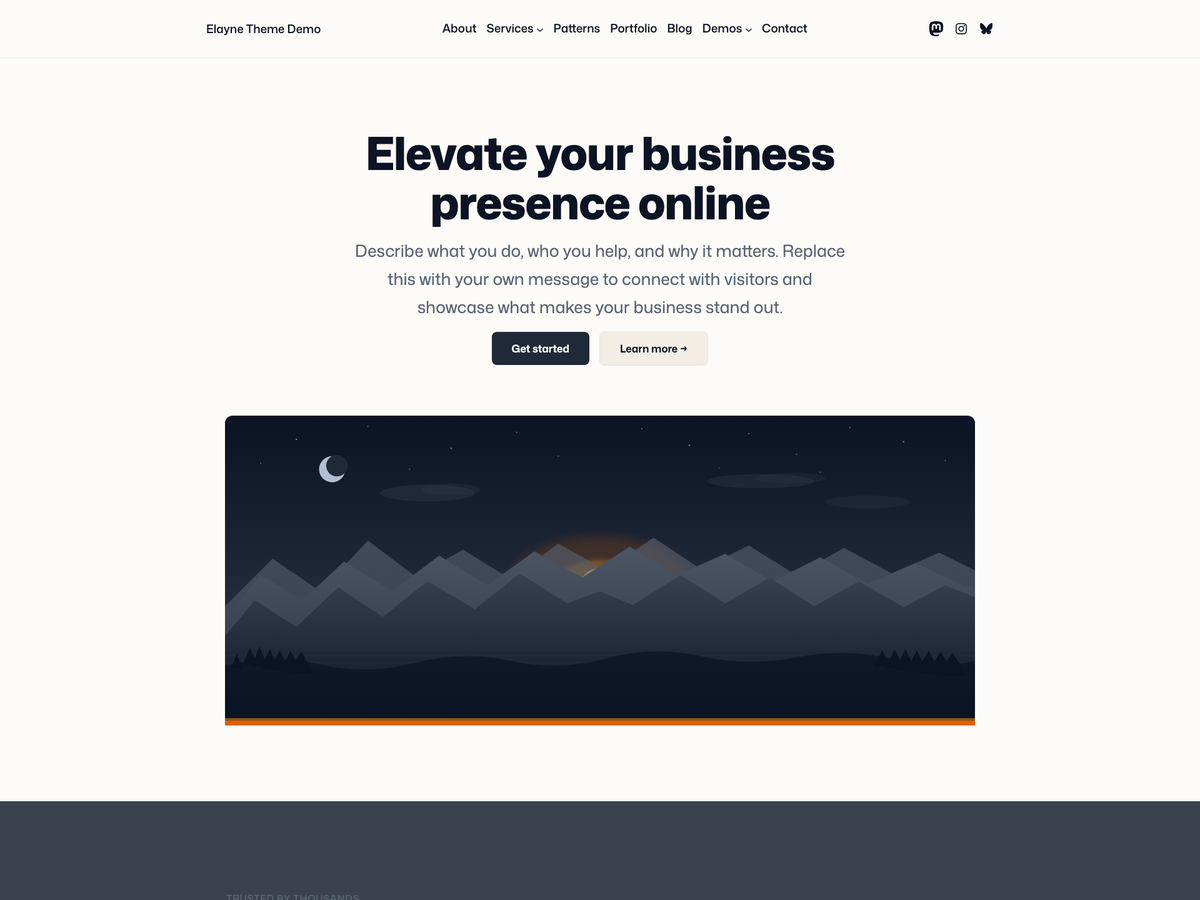
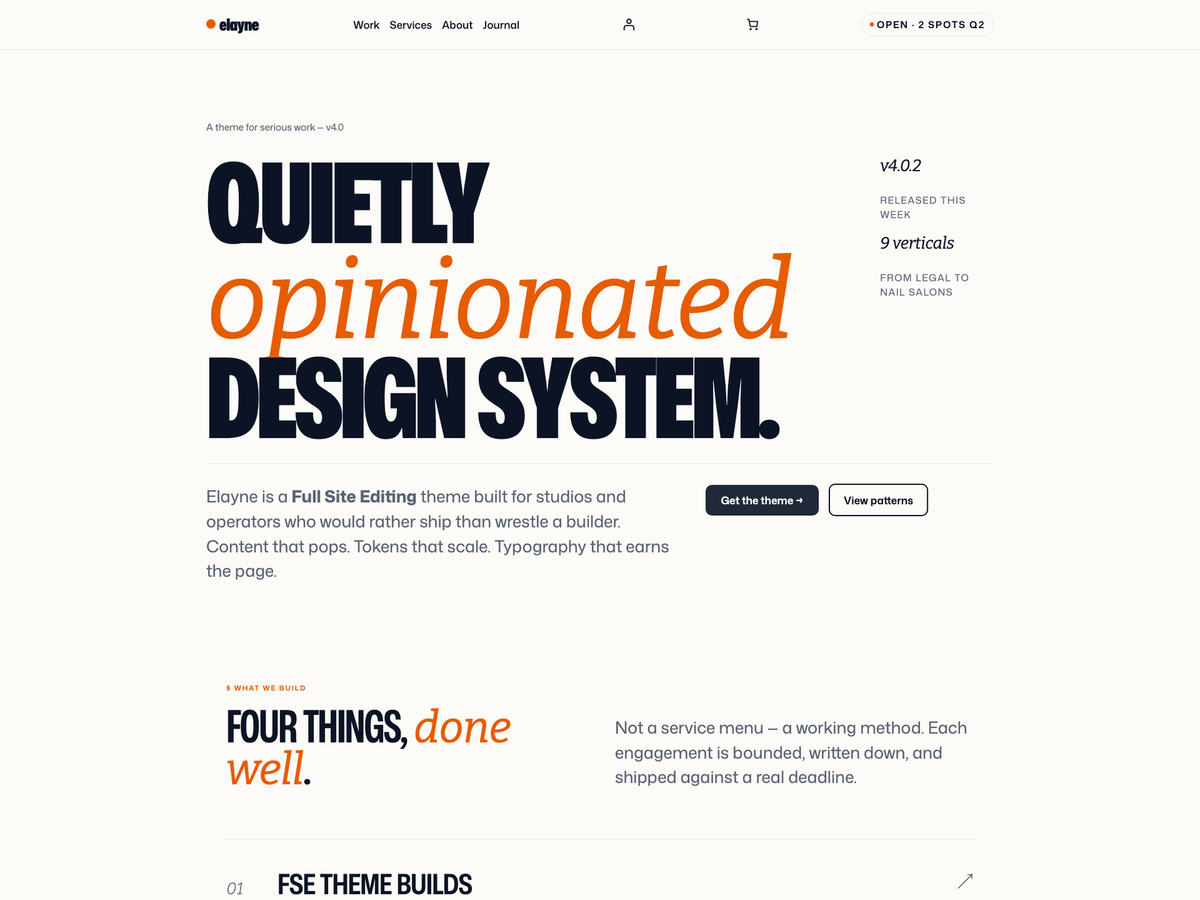
chore: bump version to 4.2.0 and update docs and screenshot

diff --git a/style.css b/style.css
@@ -7,7 +7,7 @@ Description: A premium full-site-editing block theme with industry-specific patt
 Requires at least: 6.6
 Tested up to: 6.9
 Requires PHP: 8.0
-Version: 4.1.0
+Version: 4.2.0
 License: GNU General Public License v3 or later
 License URI: https://www.gnu.org/licenses/gpl-3.0.html
 Text Domain: elayne

diff --git a/CHANGELOG.md b/CHANGELOG.md
@@ -7,6 +7,30 @@ and this project adheres to [Semantic Versioning](https://semver.org/spec/v2.0.0
 
 ## [Unreleased]
 
+## [4.2.0] - 2026-05-18
+
+### Added
+
+**Services Stack Pattern (`elayne/main-services-stack`):**
+- New editorial pattern featuring a numbered services list with four service entries: FSE theme builds, Headless + Sage, Vertical kits, and Performance + SEO
+- Two-column header section with uppercase kicker text, condensed display heading with italic serif accent, and a companion description paragraph
+- Each service row includes an italic serif number, uppercase heading, short description, and pill-tag group
+- Animated arrow indicator (`↗`) per row that shifts on hover
+
+**Editorial Block Styles (CSS):**
+- `is-style-editorial-services-stack` — Container style for the services stack; styles kicker text (uppercase, wide letter-spacing) and condensed heading with italic serif `<em>` and `<mark>` accents in `accent-warm`
+- `is-style-editorial-service-row` — Row style with bottom border, flex layout, and hover animation: `padding-left` slides in 56 px and a 40 px warm-accent line extends from the left edge; arrow indicator translates and changes colour; transitions use `cubic-bezier(.2, .7, .2, 1)` at 380 ms; stack collapses to column at ≤600 px; all transitions suppressed under `prefers-reduced-motion`
+- `is-style-editorial-pill` — Paragraph block style rendering inline tag chips: `xx-small` bold uppercase text, `main-accent` colour, `border-light` border, `999px` border-radius, and zero margin
+
+### Changed
+
+**Hero Pattern (`elayne/main-hero`):**
+- Updated displayed version number in hero stats column from `v4.0.2` to `v4.2.0`
+- Revised hero description copy: replaced "Patterns that compose." with "Content that pops."
+
+**Theme Screenshot:**
+- Updated `screenshot.png` to reflect the current hero design including the new services stack section",
+
 ## [4.1.0] - 2026-05-17
 
 ### Added

diff --git a/README.md b/README.md
@@ -45,9 +45,9 @@ For developer installation and setup, see [CONTRIBUTING.md](CONTRIBUTING.md)
 
 Elayne includes **125+ professionally designed patterns** across multiple categories:
 
-**Core Patterns:** Hero Sections (6) • Headers & Footers (11) • Banners (4) • Call-to-Action (11) • Contact (2) • Features (17) • Testimonials (7) • Statistics (1) • Team (1) • Blog & Posts (6)
+**Core Patterns:** Hero Sections (6) • Headers & Footers (11) • Banners (4) • Call-to-Action (11) • Contact (2) • Features (18) • Testimonials (7) • Statistics (1) • Team (1) • Blog & Posts (6)
 
-> Hero sections include the new `main-hero` pattern for agency and corporate homepages alongside `hero-modern-light` and the full set of industry-specific heroes.
+> Hero sections include the new `main-hero` pattern for agency and corporate homepages alongside `hero-modern-light` and the full set of industry-specific heroes. Features includes the new `main-services-stack` pattern — an editorial numbered services list with hover slide-in effect, pill tags, and two-column header.
 
 **Specialized:** Cards (13) • Events (1) • Portfolio (2) • Pages (11)
 